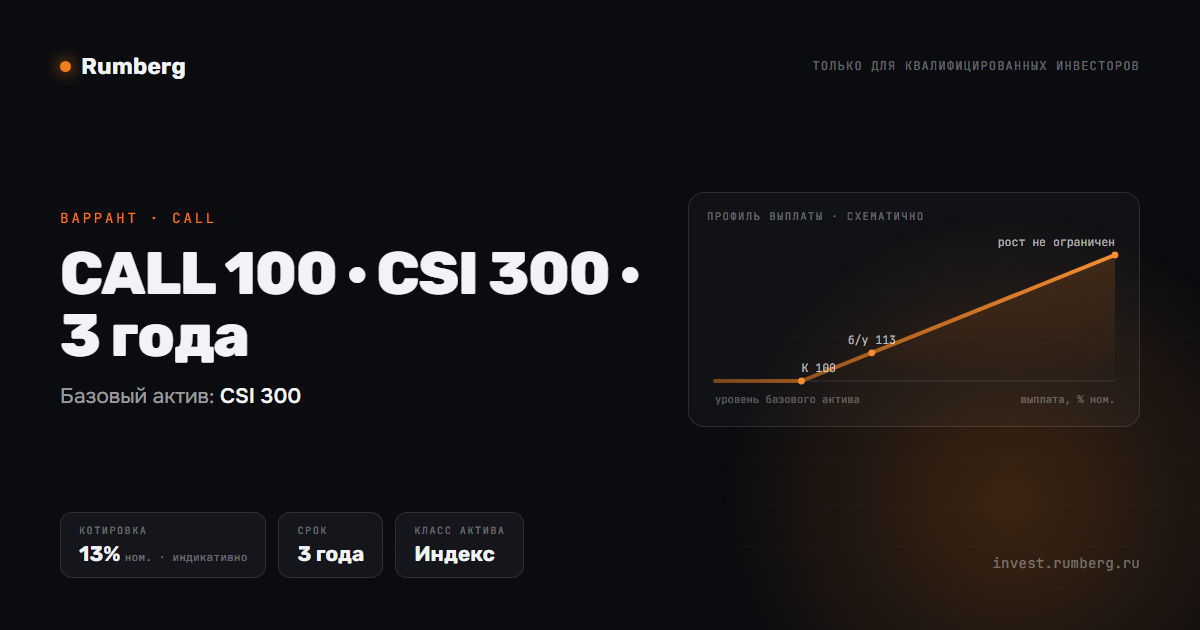
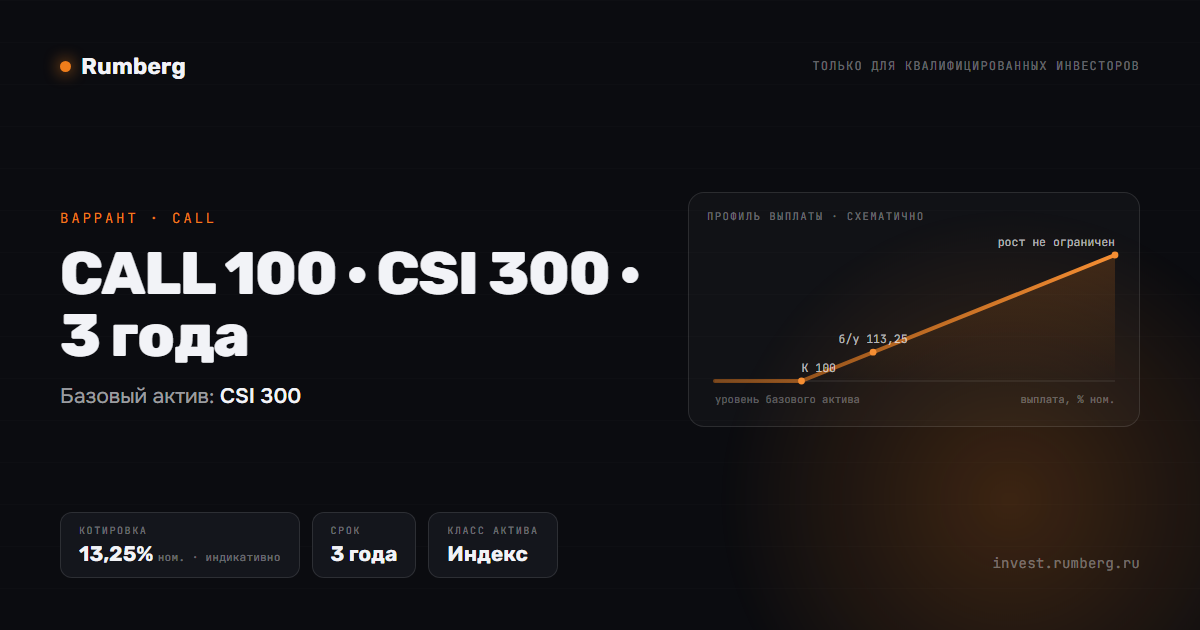
Доска: долларовые варранты — цены только вверх
Сверка 28.10.2026 на прайсере при волатильности ниже на 25%, цена прайсера / 0,8
вверх до 0,25. Снижать цены пока не стали: подняты только те, где расчёт выше доски.
- CS 100–150 · NBIS · 2 года: 14,25 → 20
- CS 100–150 · NBIS · 3 года: 22,25 → 22
- CS 100–150 · IBIT · 2 года: 20 → 22
- CS 100–150 · MU · 2 года: 17,75 → 18,75
- CALL 100 · CSI 300 · 3 года: 13 → 13,25 (приближение: в долларах прайсер не считает)
NBIS — цены заданы вручную. Перегенерированы превью p/ и og-картинки этих продуктов.

Changed region(s): [[0.0925, 0.8143, 0.4625, 0.9048], [0.7092, 0.5127, 0.7708, 0.573]]

diff --git a/p/W-MU-CS150-0828.html b/p/W-MU-CS150-0828.html
@@ -4,12 +4,12 @@
 <meta charset="utf-8">
 <meta name="viewport" content="width=device-width, initial-scale=1">
 <title>CS 100–150 · MU · 2 года — Rumberg</title>
-<meta name="description" content="Варрант на Micron Technology (MU) · котировка 17,75% от номинала · Rumberg — структурные продукты для квалифицированных инвесторов">
+<meta name="description" content="Варрант на Micron Technology (MU) · котировка 18,75% от номинала · Rumberg — структурные продукты для квалифицированных инвесторов">
 <meta property="og:type" content="website">
 <meta property="og:site_name" content="Rumberg">
 <meta property="og:locale" content="ru_RU">
 <meta property="og:title" content="CS 100–150 · MU · 2 года">
-<meta property="og:description" content="Варрант на Micron Technology (MU) · котировка 17,75% от номинала · Rumberg — структурные продукты для квалифицированных инвесторов">
+<meta property="og:description" content="Варрант на Micron Technology (MU) · котировка 18,75% от номинала · Rumberg — структурные продукты для квалифицированных инвесторов">
 <meta property="og:url" content="https://invest.rumberg.ru/p/W-MU-CS150-0828.html">
 <meta property="og:image" content="https://invest.rumberg.ru/og/W-MU-CS150-0828.png">
 <meta property="og:image:width" content="1200">

diff --git a/p/W-NBIS-CS150-0728.html b/p/W-NBIS-CS150-0728.html
@@ -4,12 +4,12 @@
 <meta charset="utf-8">
 <meta name="viewport" content="width=device-width, initial-scale=1">
 <title>CS 100–150 · NBIS · 2 года — Rumberg</title>
-<meta name="description" content="Варрант на Nebius Group (NBIS) · котировка 14,25% от номинала · Rumberg — структурные продукты для квалифицированных инвесторов">
+<meta name="description" content="Варрант на Nebius Group (NBIS) · котировка 20% от номинала · Rumberg — структурные продукты для квалифицированных инвесторов">
 <meta property="og:type" content="website">
 <meta property="og:site_name" content="Rumberg">
 <meta property="og:locale" content="ru_RU">
 <meta property="og:title" content="CS 100–150 · NBIS · 2 года">
-<meta property="og:description" content="Варрант на Nebius Group (NBIS) · котировка 14,25% от номинала · Rumberg — структурные продукты для квалифицированных инвесторов">
+<meta property="og:description" content="Варрант на Nebius Group (NBIS) · котировка 20% от номинала · Rumberg — структурные продукты для квалифицированных инвесторов">
 <meta property="og:url" content="https://invest.rumberg.ru/p/W-NBIS-CS150-0728.html">
 <meta property="og:image" content="https://invest.rumberg.ru/og/W-NBIS-CS150-0728.png">
 <meta property="og:image:width" content="1200">

diff --git a/p/W-NBIS-CS150-0729.html b/p/W-NBIS-CS150-0729.html
@@ -4,12 +4,12 @@
 <meta charset="utf-8">
 <meta name="viewport" content="width=device-width, initial-scale=1">
 <title>CS 100–150 · NBIS · 3 года — Rumberg</title>
-<meta name="description" content="Варрант на Nebius Group (NBIS) · котировка 22,25% от номинала · Rumberg — структурные продукты для квалифицированных инвесторов">
+<meta name="description" content="Варрант на Nebius Group (NBIS) · котировка 22% от номинала · Rumberg — структурные продукты для квалифицированных инвесторов">
 <meta property="og:type" content="website">
 <meta property="og:site_name" content="Rumberg">
 <meta property="og:locale" content="ru_RU">
 <meta property="og:title" content="CS 100–150 · NBIS · 3 года">
-<meta property="og:description" content="Варрант на Nebius Group (NBIS) · котировка 22,25% от номинала · Rumberg — структурные продукты для квалифицированных инвесторов">
+<meta property="og:description" content="Варрант на Nebius Group (NBIS) · котировка 22% от номинала · Rumberg — структурные продукты для квалифицированных инвесторов">
 <meta property="og:url" content="https://invest.rumberg.ru/p/W-NBIS-CS150-0729.html">
 <meta property="og:image" content="https://invest.rumberg.ru/og/W-NBIS-CS150-0729.png">
 <meta property="og:image:width" content="1200">

diff --git a/p/W-IBIT-CS150-0728.html b/p/W-IBIT-CS150-0728.html
@@ -4,12 +4,12 @@
 <meta charset="utf-8">
 <meta name="viewport" content="width=device-width, initial-scale=1">
 <title>CS 100–150 · IBIT · 2 года — Rumberg</title>
-<meta name="description" content="Варрант на Bitcoin (IBIT) · котировка 20% от номинала · Rumberg — структурные продукты для квалифицированных инвесторов">
+<meta name="description" content="Варрант на Bitcoin (IBIT) · котировка 22% от номинала · Rumberg — структурные продукты для квалифицированных инвесторов">
 <meta property="og:type" content="website">
 <meta property="og:site_name" content="Rumberg">
 <meta property="og:locale" content="ru_RU">
 <meta property="og:title" content="CS 100–150 · IBIT · 2 года">
-<meta property="og:description" content="Варрант на Bitcoin (IBIT) · котировка 20% от номинала · Rumberg — структурные продукты для квалифицированных инвесторов">
+<meta property="og:description" content="Варрант на Bitcoin (IBIT) · котировка 22% от номинала · Rumberg — структурные продукты для квалифицированных инвесторов">
 <meta property="og:url" content="https://invest.rumberg.ru/p/W-IBIT-CS150-0728.html">
 <meta property="og:image" content="https://invest.rumberg.ru/og/W-IBIT-CS150-0728.png">
 <meta property="og:image:width" content="1200">

diff --git a/p/W-CSI300-C100-0729.html b/p/W-CSI300-C100-0729.html
@@ -4,12 +4,12 @@
 <meta charset="utf-8">
 <meta name="viewport" content="width=device-width, initial-scale=1">
 <title>CALL 100 · CSI 300 · 3 года — Rumberg</title>
-<meta name="description" content="Варрант на CSI 300 · котировка 13% от номинала · Rumberg — структурные продукты для квалифицированных инвесторов">
+<meta name="description" content="Варрант на CSI 300 · котировка 13,25% от номинала · Rumberg — структурные продукты для квалифицированных инвесторов">
 <meta property="og:type" content="website">
 <meta property="og:site_name" content="Rumberg">
 <meta property="og:locale" content="ru_RU">
 <meta property="og:title" content="CALL 100 · CSI 300 · 3 года">
-<meta property="og:description" content="Варрант на CSI 300 · котировка 13% от номинала · Rumberg — структурные продукты для квалифицированных инвесторов">
+<meta property="og:description" content="Варрант на CSI 300 · котировка 13,25% от номинала · Rumberg — структурные продукты для квалифицированных инвесторов">
 <meta property="og:url" content="https://invest.rumberg.ru/p/W-CSI300-C100-0729.html">
 <meta property="og:image" content="https://invest.rumberg.ru/og/W-CSI300-C100-0729.png">
 <meta property="og:image:width" content="1200">

diff --git a/data/instruments.js b/data/instruments.js
@@ -217,7 +217,7 @@ window.SITE_DATA = {
       "uRef": "$205",
       "spot": 100,
       "tenor": "2 года",
-      "quote": 14.25,
+      "quote": 20,
       "chg": 0,
       "minNom": 1000000
     },
@@ -234,7 +234,7 @@ window.SITE_DATA = {
       "uRef": "$205",
       "spot": 100,
       "tenor": "3 года",
-      "quote": 22.25,
+      "quote": 22,
       "chg": 0,
       "minNom": 1000000
     },
@@ -413,7 +413,7 @@ window.SITE_DATA = {
       "uRef": "$37",
       "spot": 100,
       "tenor": "2 года",
-      "quote": 20,
+      "quote": 22,
       "chg": 0,
       "minNom": 1000000
     },
@@ -462,7 +462,7 @@ window.SITE_DATA = {
       "uRef": "4 739 пт",
       "spot": 100,
       "tenor": "3 года",
-      "quote": 13,
+      "quote": 13.25,
       "chg": 0,
       "minNom": 1000000
     },
@@ -527,7 +527,7 @@ window.SITE_DATA = {
       "uRef": "$1 012",
       "spot": 100,
       "tenor": "2 года",
-      "quote": 17.75,
+      "quote": 18.75,
       "chg": 0,
       "minNom": 1000000
     },
